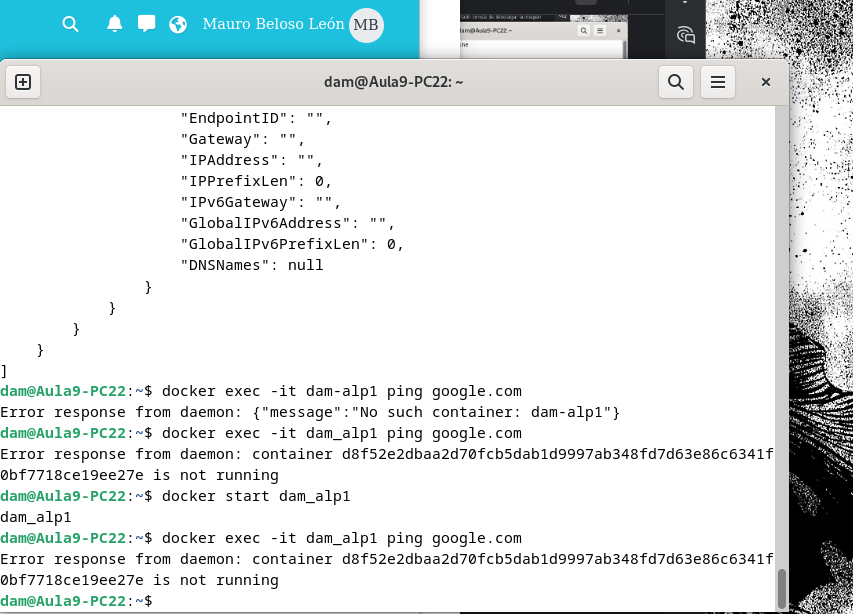
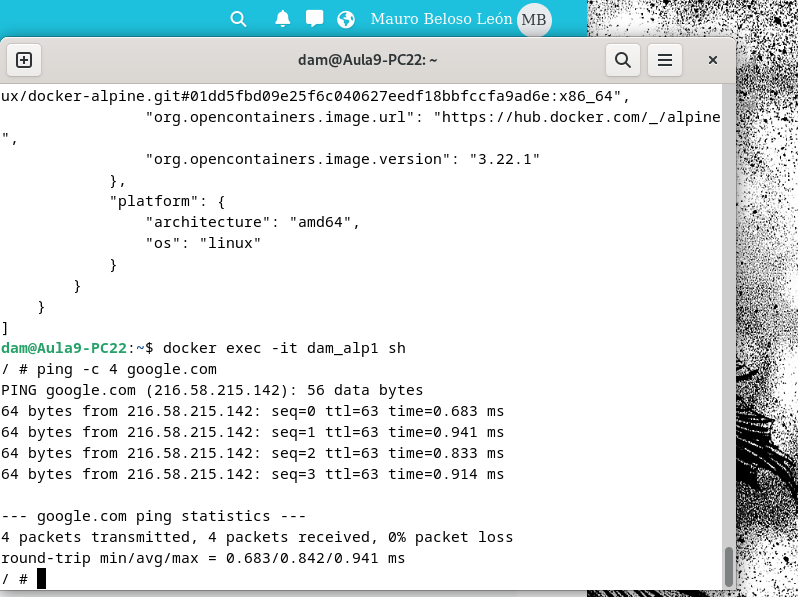
modificaciones

diff --git a/src/Tarea3/readme.md b/src/Tarea3/readme.md
@@ -15,39 +15,36 @@ Este contenedor adquiere autimaticamente un nombre aleatorio, y para comprobar s
 
 ![Docker4.png](Fotos/Docker4.png)
 
-Para obtener el nombre usamos el siguiente comando que muestra todos los contenedores:
-
-![Docker5.png](Fotos/Docker5.png)
-
-Para el tercer apartado creamos un contenedor llamado dam_alp1
+Para el apartado 3 debemos crear un contenedor llamado dam_alp1 y acceder a el. Para ello debemos crear un contenedor y usamos el comando infinity para que se ejecute continuamente.
 
 ![Docker6.png](Fotos/Docker6.png)
 
-Para acceder a ella primero debemos iniciarla y después introducir el siguiente comando
+Para acceder al contenedor usamos el siguiente comando. Si estamos dentro de el, aparecerá el símbolo "#". Para salir de este ejecutamos ctrl + P y ctrl + Q
 
 ![Docker7.png](Fotos/Docker7.png)
 
-El cuarto apartado nos pregunta cual es la IP del contenedor, ejecutamos el siguiente comando
+Para comprobar la ip ejecutamos el siguiente comando
 
 ![Docker8.png](Fotos/Docker8.png)
 
-Para saber si se puede usar ping google.com, debemos iniciar el contenedor y ejecutar el siguiente comando:
+Para usar el comando ping debemos ejecutar primero el contenedor y después usar el comando ping
 
 ![Docker9.png](Fotos/Docker9.png)
 
-Ahora creamos un segundo contenedor llamado dam_alp2
+En el quinto apartado nos pide crear otro contenedor y hacer ping entre estos. Para ello creamos el contenedor y buscamos su IP
 
 ![Docker10.png](Fotos/Docker10.png)
 
-Para usar el comando ping entre los dos contenedores, debemos ejecutar el primer contenedor y después usar el comando ping sobre el segundo
+Para ejecutar ping, debemos ejecutar el primer contenedor y dentro ejecutar ping con la ip del segundo contenedor
 
 ![Docker11.png](Fotos/Docker11.png)
 
-Al cerrar la terminal, el conenedor en ejecución termina.
+Para salir de la terminal ejecutamos exit. Con respecto al contenedor, debido al comando infinity, este se seguirá ejecutando.
 
-Para saber cuanta memoria se ocupó usamos el siguiente comando, y nos fijaremos en el apartado size:
+Para saber cuanta memoria en el disco duro se ocupó ejecutamos el siguiente comando
 
 ![Docker12.png](Fotos/Docker12.png)
 
-Por último para ver cuanta RAM ocupan los contenedores se debe usar el comando docker stats.
+Por último para ver la RAM que ocupan, usamos el comando docker stats
 
+![Docker13.png](Fotos/Docker13.png)
